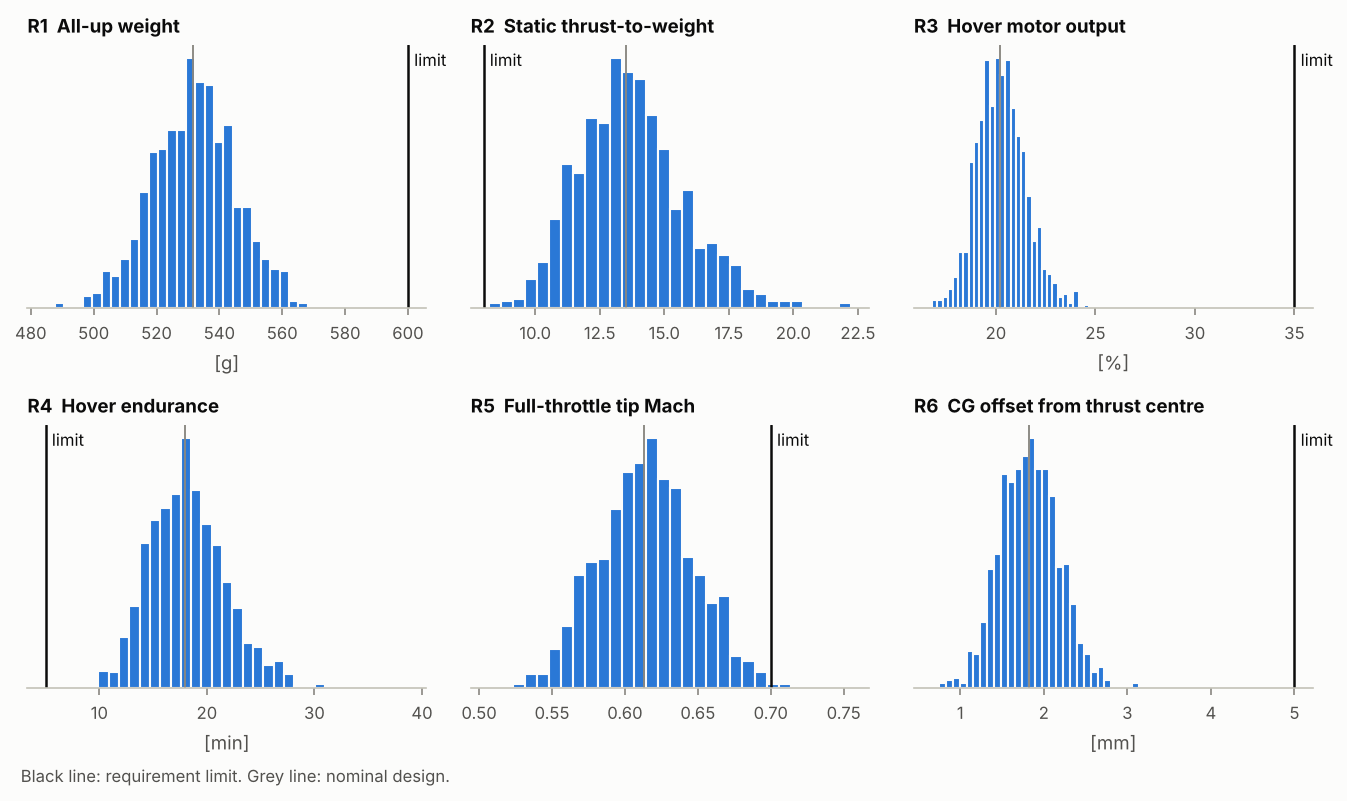
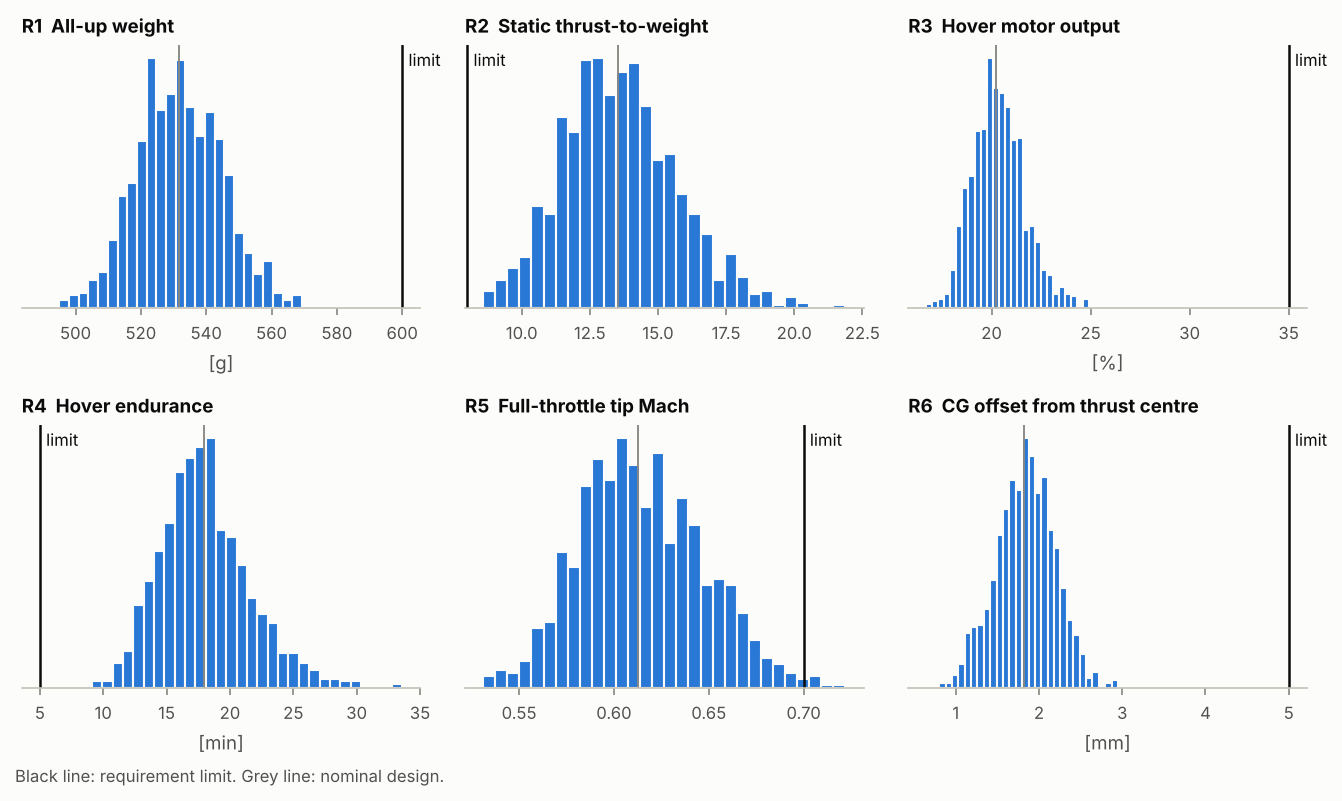
Regenerate design report and add freestyle flight report
Claude-Session: https://claude.ai/code/session_01Gr7RFANGNg9tgHViymiLYv

diff --git a/reports/flight-freestyle/report.md b/reports/flight-freestyle/report.md
@@ -1,0 +1,70 @@
+# 飛行測試報告：綜合飛行：前飛、衝刺、滾轉翻、後空翻、原地自轉、收油下墜（`freestyle`）
+
+> 由 `fpvsim fly` 自動產生。原始 log 在 `flight_log.csv`（欄位格式見 docs/flight-sim.md）。
+
+| 項目 | 內容 |
+|---|---|
+| 機體 | 參考機：5 吋 6S freestyle（通用零件）（`data/builds/ref-5in-6s-freestyle.toml`） |
+| 飛控設定 | 5 吋 Acro 基準設定（`acro-5in-baseline`） |
+| 輸入 | `freestyle` |
+| 程式版本 | fpvsim 0.1.0，git `e0bf60d6ae2f（工作區有未提交的修改）` |
+| 輸入檔雜湊 | `2a0f87fb70bf5710` |
+| 隨機種子 | 1 |
+| 更新率 | 物理 8000 Hz，陀螺儀 8000 Hz，PID 4000 Hz，記錄 1000 Hz |
+| 產生時間 (UTC) | 2026-10-07 18:29 |
+
+## 摘要
+
+| 項目 | 數值 |
+|---|---|
+| 飛行時間 | 15.0 s |
+| 最大速度（三維 / 水平） | 44.6 / 12.2 m/s（161 / 44 km/h） |
+| 最大爬升 / 下降速度 | 43.9 / 7.1 m/s |
+| 高度範圍（起始 20 m） | 20.0 – 77.1 m |
+| 最大傾角 | 166° |
+| 最大角速度（滾轉 / 俯仰 / 偏航） | 762 / 830 / 614 deg/s |
+| 最低單芯電壓（ESC 端） | 3.28 V |
+| 最大 / 最小電流 | 207 / -69 A（負值為煞車回充） |
+| 用電量 | 51 mAh，1.12 Wh |
+| 剩餘電量 | 96% |
+
+- 觸地最大速度 0.00 m/s，未墜機（門檻 3 m/s）。
+
+![Trajectory](trajectory.png)
+
+## 1. 姿態控制
+
+| 軸 | 追蹤誤差 (RMS) | 延遲（互相關） | 最大命令角速度 |
+|---|---|---|---|
+| 滾轉 | 41.2 deg/s | 26 ms | 670 deg/s |
+| 俯仰 | 43.7 deg/s | 20 ms | 670 deg/s |
+| 偏航 | 14.0 deg/s | 9 ms | 600 deg/s |
+
+![Rates](rates.png)
+
+## 2. 馬達與動力
+
+![Motors](motors.png)
+
+![Power](power.png)
+
+## 3. 模型適用範圍監測
+
+模擬器會記錄飛行是否離開物理模型的適用範圍。超出範圍的片段，數值只能當作定性參考。
+
+| 狀況 | 時間占比 | 首次發生 | 影響 |
+|---|---|---|---|
+| 下降進入自身尾流（下降速度 > 0.5 倍懸停誘導速度） | 9.1% | 5.69 s | 動量理論在此失效，渦環狀態與 propwash 未建模；這段的推力與抖動不可信 |
+| 前進比超出槳係數表（J ≥ 1） | 7.4% | 4.84 s | 槳係數以表格最後一點外插，推力估計不可信 |
+| 槳尖馬赫數 > 0.7 | 0.0% | — | 未計入壓縮性，推力與扭矩偏樂觀 |
+| 混控飽和 | 1.0% | 1.00 s | 馬達已到 0% 或 100%，姿態控制能力受限；不是模型問題，是飛行限制 |
+| 接觸地面 | 0.0% | — | 接地模型為簡化的彈簧阻尼與庫侖摩擦 |
+
+![Validity](validity.png)
+
+## 4. 這次模擬沒有包含的東西
+
+- 下降進入自身尾流時的渦環狀態與 propwash 抖動（只監測，不模擬）
+- 機架彈性與共振；振動只進入陀螺儀量測，不影響剛體運動
+- 槳在斜向氣流中的非軸向效應（只計入軸向前進比與槳盤阻力）
+- 自動測試飛手只是測試工具，不代表人類飛手的反應與習慣
